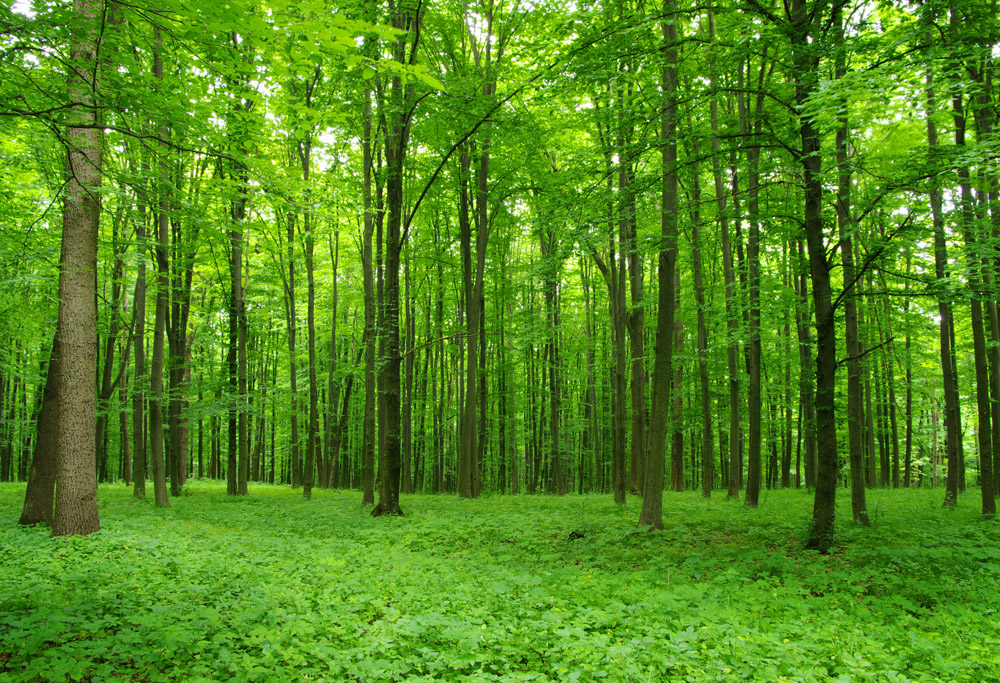
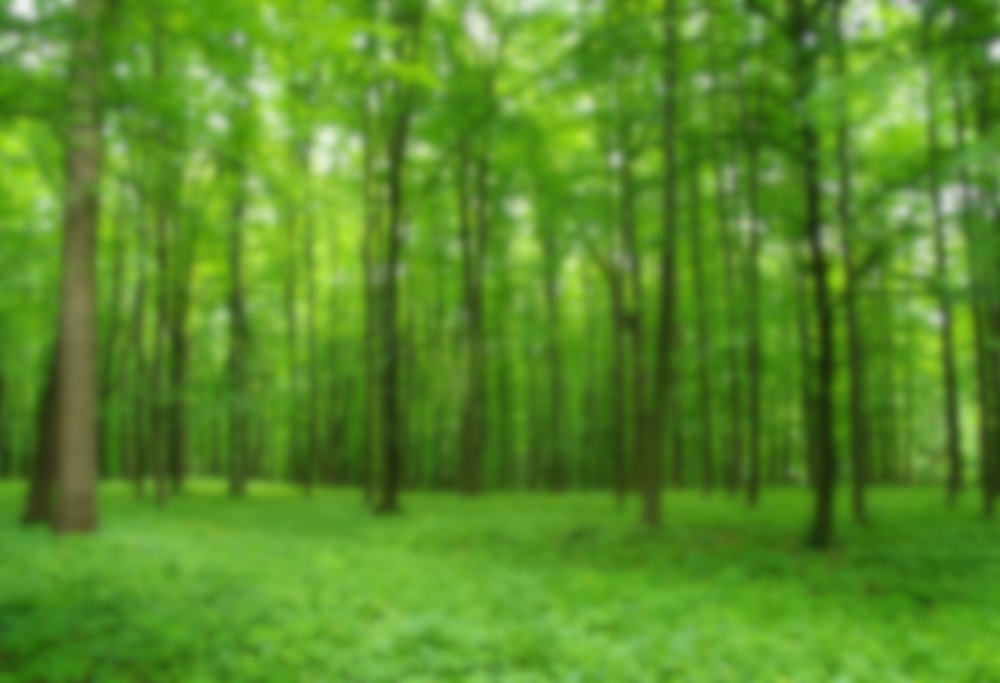
update layout with flexbox

diff --git a/Yuriy_Lysov/layout_with_flexbox/css/main.css b/Yuriy_Lysov/layout_with_flexbox/css/main.css
@@ -9,13 +9,17 @@ body {
   margin: 0; }
 
 .background {
-  background-image: url("../img/background.jpg");
-  filter: brightness(0.8) blur(10px);
+  background: url("../img/background.jpg") no-repeat center center fixed;
   width: 100%;
   height: 100%;
   position: fixed;
   margin: 0;
-  z-index: -999; }
+  -webkit-background-size: cover;
+  -moz-background-size: cover;
+  -o-background-size: cover;
+  background-size: cover;  
+  z-index: -999;
+}
 
 .container {
   width: 100vw;
